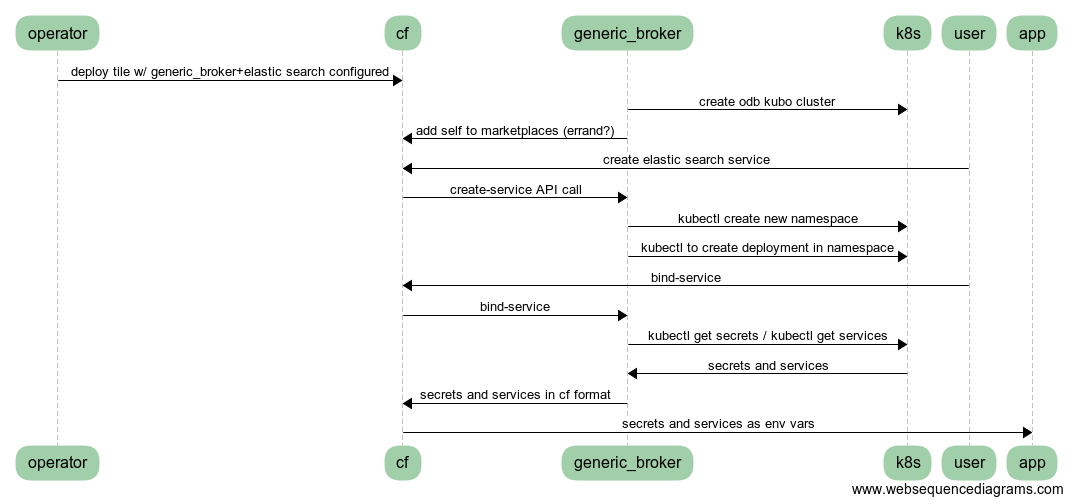
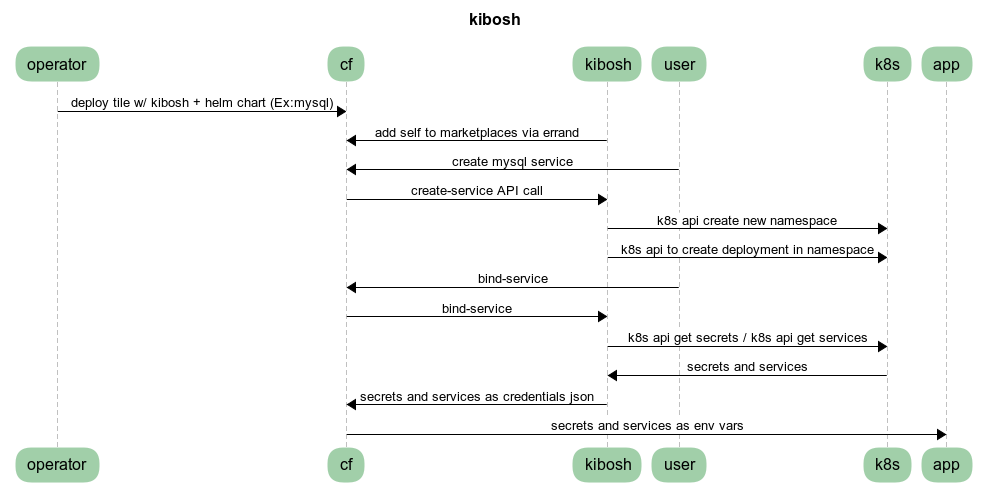
Update documentation

diff --git a/README.md b/README.md
@@ -1,9 +1,30 @@
 # Kibosh
 
-A generic broker bridging the gap between Kubernetes and CF brokered services (we BOSH so you don't have to).
+A generic
+[open service broker](https://github.com/openservicebrokerapi/servicebroker)
+bridging the gap between Kubernetes and CF brokered services (we BOSH so you don't have to). 
+
+The consumer of this repo is 
+[tile-generator](https://github.com/cf-platform-eng/tile-generator),
+which provides a packaging abstraction to produce a PCF tile from a helm chart.
+
 We are still in early development, but do plan to provide migration for partners working directly with us.
 
-## Charts
+## Configuration
+### Changes required in Chart
+* Plans
+    Kibosh requires that helm chart has additional file that describes plan in plans.yaml at root level
+    ```yaml
+    - name: "small"
+      description: "default (small) plan for mysql"
+      file: "small.yaml"
+    - name: "medium"
+      description: "medium sized plan for mysql"
+      file: "medium.yaml"
+    ```
+    File is a filename that exists in the `plans` subdirectory of the chart
+    Name should be lower alpha, numeric, `.`, or `-` 
+    Values `values.yaml` sets the defaults and plans only need override values 
 
 In order to successfully pull private images, we're imposing some requirements
 on the `values.yaml` file structure
@@ -25,20 +46,7 @@ on the `values.yaml` file structure
         image: "my-second-image"
         imageTag: "1.2.3"
     ```
-* Plans
-    Kibosh requires that helm chart has additional file that describes plan in plans.yaml at root level
-    ```yaml
-    - name: "small"
-      description: "default (small) plan for mysql"
-      file: "small.yaml"
-    - name: "medium"
-      description: "medium sized plan for mysql"
-      file: "medium.yaml"
-    ```
-    File is a filename that exists in the `plans` subdirectory of the chart
-    Name should be lower alpha, numeric, `.`, or `-` 
-    Values `values.yaml` sets the defaults and plans only need override values 
-
+    
 ### Private registries
 When the environment settings for a private registry are present (`REG_SERVER`, `REG_USER`, `REG_PASS`), 
 then Kibosh will transform images to pull them from the private registry. It assumes
@@ -80,91 +88,15 @@ for a working cluster (minikube instructions below). Then run:
 ./local_dev.sh
 ```
 
-#### Minikube
-To set things up in a way that authentication is done the same way as against PKS, run 
-```bash
-./dev/minikube_auth.sh
-```
-
-Which creates a service account with `cluster-admin` and output the token.
-
-For `certificate-authority-data`, encode the minikube certificate:
-```bash
-cat ~/.minikube/ca.crt | base64
-```
-
 #### Test
 ```bash
 make test
 ```
 
-Instructions to manually deploy and verify catalog:
-1) Build the linux binary
-    ```bash
-    make linux
-    ```
-1) Create a directory and put the kibosh executable into it. 
-    ```
-    mkdir kibosh-example
-    cp ~/go/src/github.com/cf-platform-eng/kibosh/kibosh.linux kibosh-example/kibosh.linux
-    ```
-1) Create a Manifest.yml file as shown below in that directory.
-   Get cluster information for kube config file. For `CA_DATA` - `base64 --decode` what comes back from PKS 
-    ```
-    cat > manifest.yml
-    ---
-    applications:
-    - name: kibosh_manual
-      buildpack: binary_buildpack
-      command: ./kibosh.linux
-      env:
-        SECURITY_USER_NAME: username
-        SECURITY_USER_PASSWORD: password
-        SERVICE_ID: f448fdea-25b8-41aa-aed4-539d8ace5e32
-        HELM_CHART_DIR: charts
-        CA_DATA: |
-           -----BEGIN CERTIFICATE-----
-           ...
-           -----END CERTIFICATE-----
-        SERVER: https://127.0.0.1
-        TOKEN: bXktdG9rZW4=
-    ```
-1) Create a helm chart in that directory.
-
-   That helm chart could like like the example-chart in this project, 
-   or could be one of these: https://github.com/kubernetes/charts.  The `HELM_CHART_DIR`
-   environment variable in the Manifest.yml file should point to the sub-directory 
-   in which you put it. 
-   
-1) Push the kibosh application (with its helm chart subdirectory) into CF
-   ```
-   cf push
-   ```
-1) Validate the data that the catalog endpoint provides
-    ```
-    curl -k https://example.com/v2/catalog -u 'username:password'
-    ```
-    The username/password match the manifest's environment variables above.
-
-1) Put the application into the CF Marketplace. 
-    ```
-    cf create-service-broker kibosh-broker username password https://example.com
-    cf enable-service-access myexample_chart
-    cf service-brokers
-    cf service-access
-    ```
-
-1) Create an instance of the helm application from the marketplace. 
-    ```
-    cf create-service myexample_chart default myexample_instance
-    helm list
-    cf services
-    cf service myexample_instance
-    ```
-1) Create a service key to bind to the service instance. 
-    ```
-    cf create-service-key myexample_instance myexample_instance_servicekey
-    ```
+To generate the test-doubles, after any interface change run: 
+```bash
+make generate
+```
 
 ### ci
 * https://concourse.cfplatformeng.com/teams/main/pipelines/kibosh
@@ -207,19 +139,19 @@ Inline-style:
 
 Diagram source https://www.websequencediagrams.com/ + 
 ```text
-object operator user cf generic_broker k8s app
-operator->cf: deploy tile w/ generic_broker+elastic search configured
-generic_broker->k8s: create odb kubo cluster
-generic_broker->cf: add self to marketplaces (errand?)
-user->cf: create elastic search service
-cf->generic_broker: create-service API call
-generic_broker-> k8s: kubectl create new namespace
-generic_broker-> k8s: kubectl to create deployment in namespace
+title kibosh
+
+operator->cf: deploy tile w/ kibosh + helm chart (Ex:mysql)
+kibosh->cf: add self to marketplaces via errand
+user->cf: create mysql service
+cf->kibosh: create-service API call
+kibosh-> k8s: k8s api create new namespace
+kibosh-> k8s: k8s api to create deployment in namespace
 user->cf: bind-service
-cf->generic_broker: bind-service
-generic_broker-> k8s: kubectl get secrets / kubectl get services
-k8s->generic_broker: secrets and services
-generic_broker->cf: secrets and services in cf format
+cf->kibosh: bind-service
+kibosh-> k8s: k8s api get secrets / k8s api get services
+k8s->kibosh: secrets and services
+kibosh->cf: secrets and services as credentials json
 cf->app: secrets and services as env vars
 ```
 
